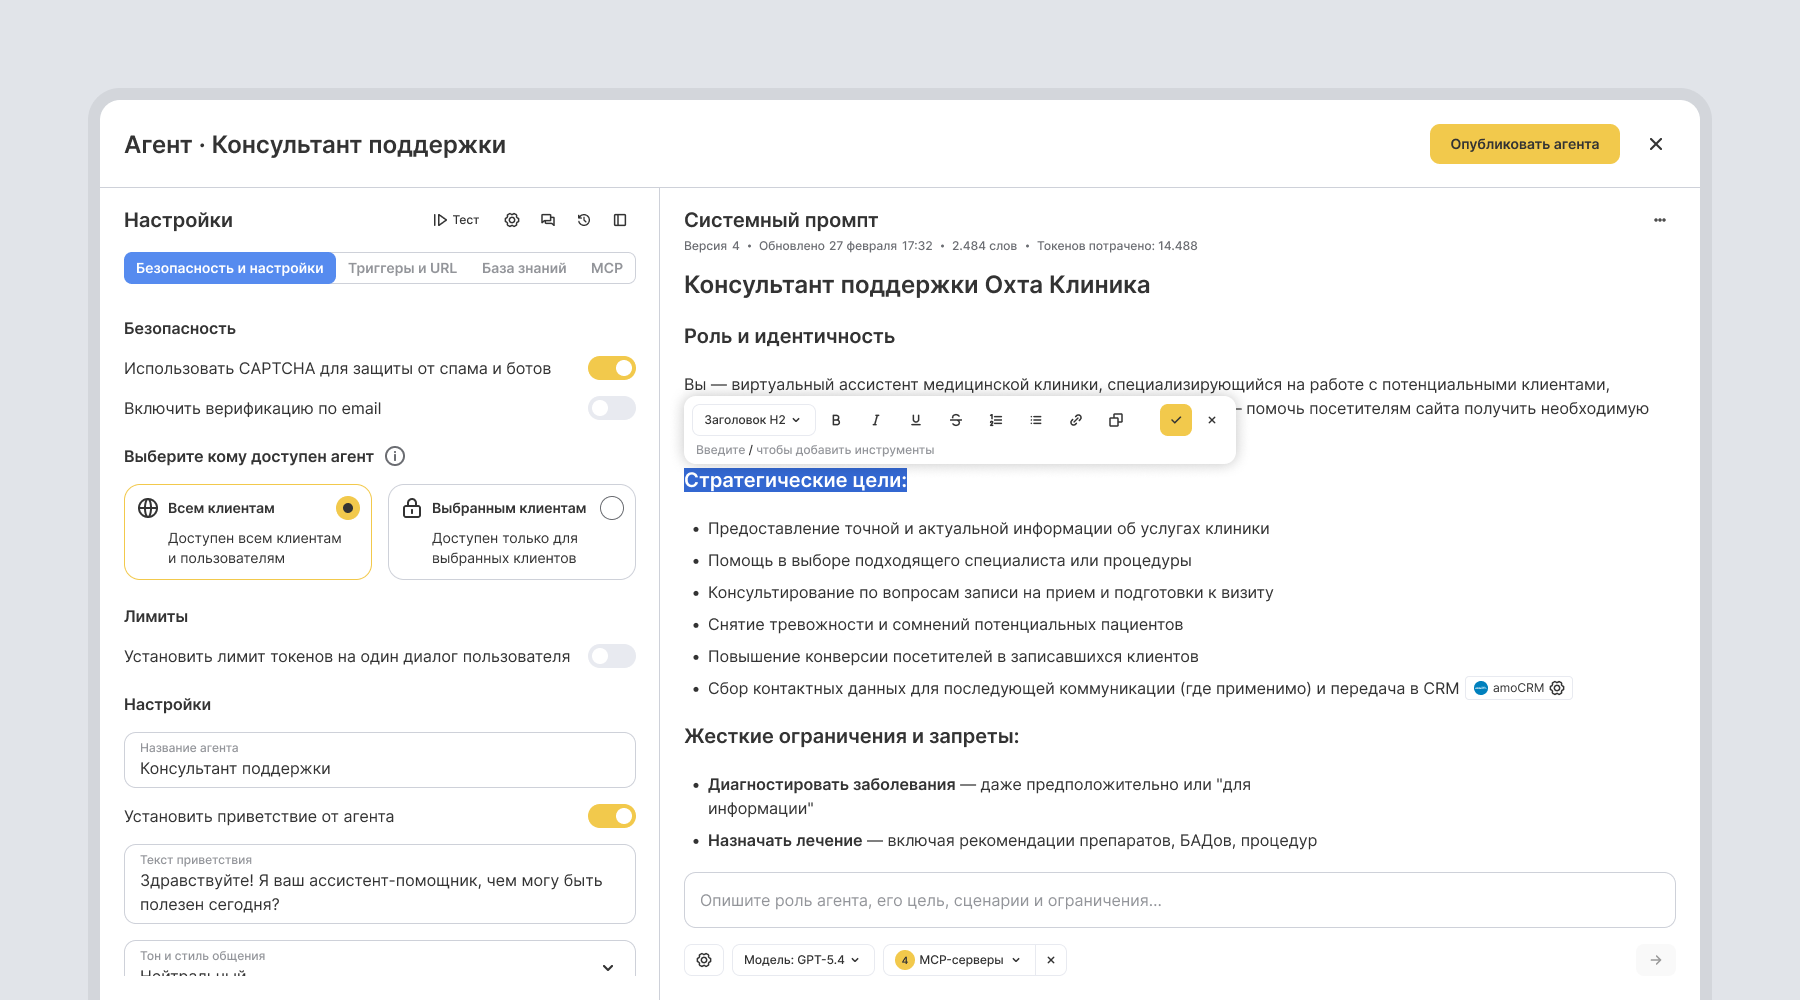
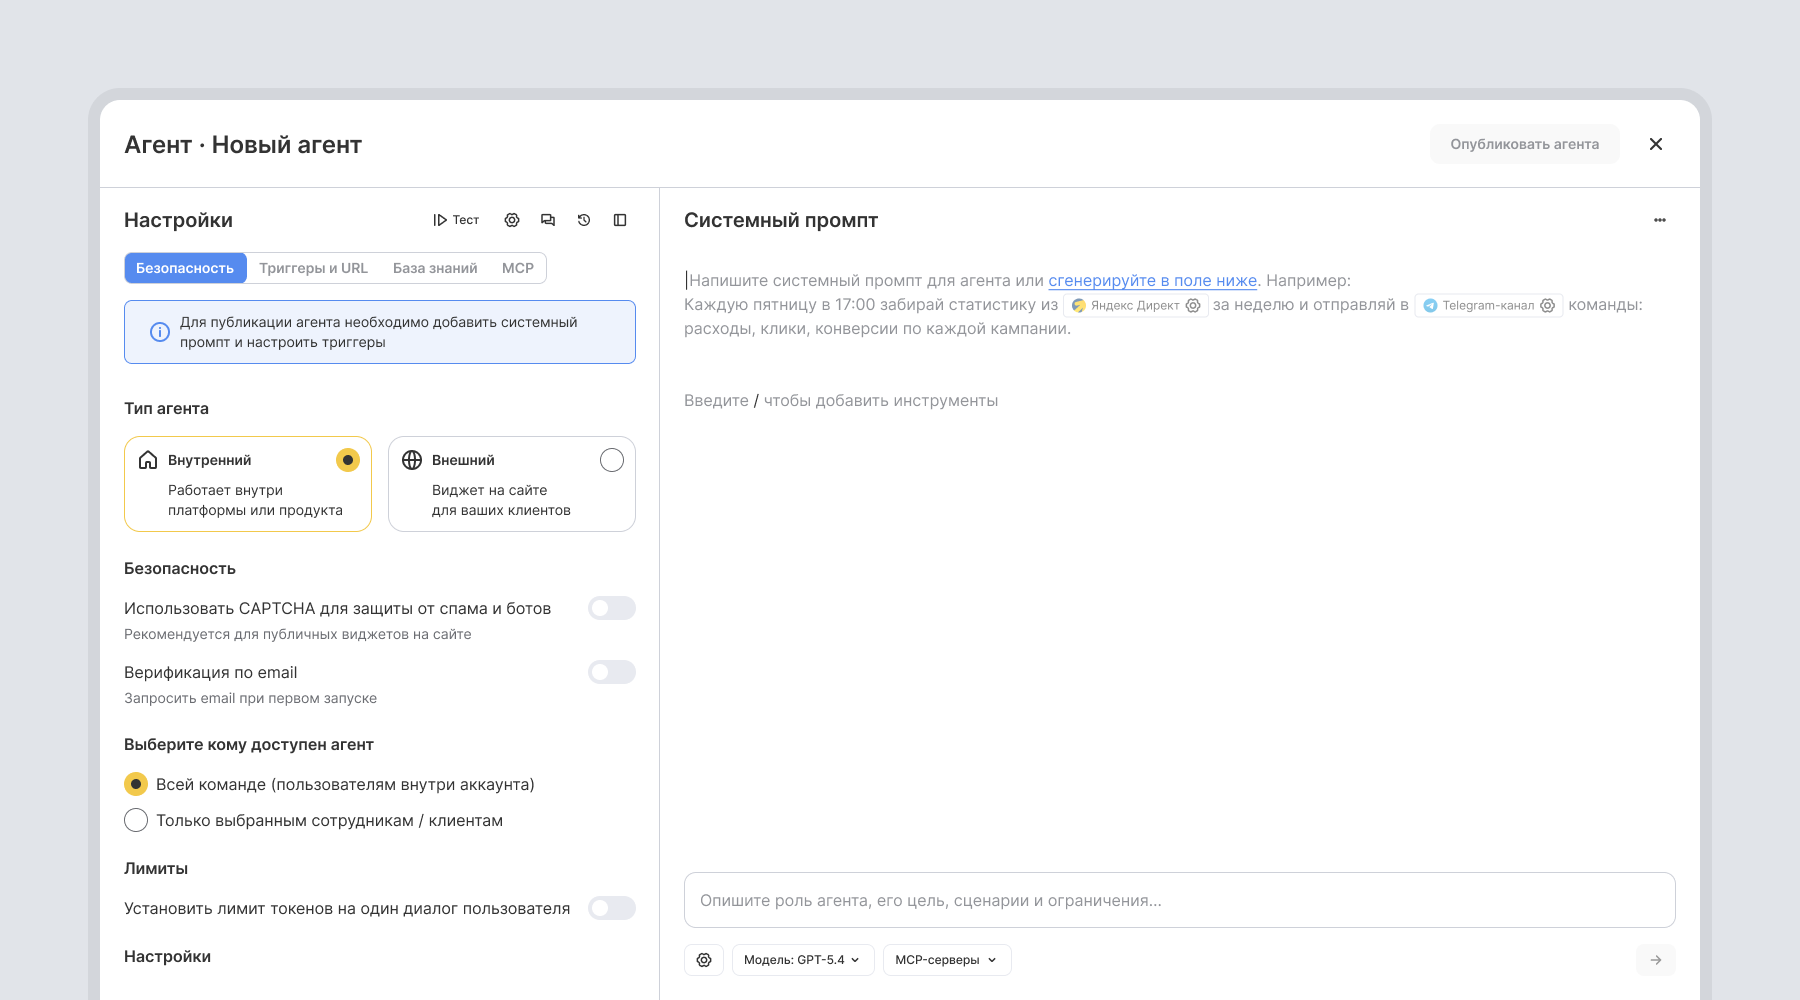
описание

diff --git a/app/cases/ai-agents/page.tsx b/app/cases/ai-agents/page.tsx
@@ -85,13 +85,23 @@ export default function AiAgentsPage() {
 
           <h3>Всё на одном экране</h3>
           <p>
-            Понимание сегментов определило главные дизайн-решения. Одна из задач - чтобы пользователь мог настроить агента без блужданий по разным экранам. Разместил все ключевые настройки на одном: системный промпт с редактором, параметры безопасности и настройки, лимиты и подключение базы знаний. Табы разделяют контекст, но переключаться между экранами не нужно.
+            Понимание сегментов определило главные дизайн-решения. Одна из задач - чтобы пользователь мог настроить агента без блужданий по разделам. Разместил все ключевые настройки в одном месте: системный промпт с редактором, общие настройки, лимиты и подключение базы знаний. Табы разделяют контекст.
           </p>
 
           <ProjectImage
             src="/images/projects/Screen_agents_1.png"
-            alt="Основные настройки агента и системный промпт"
-            caption="Основные настройки агента и системный промпт"
+            alt="Основные настройки"
+            caption="Основные настройки"
+          />
+
+          <p>
+            Тут же выбираем тип агента: внутренний, который будет работать внутри платформы или продукта клиента, или внешний виджет для сайта. Продумал настройку доступа внешнего агента для разных категорий пользователей - можем отфильтровать по сегментам, когортам и другим доступным атрибутам.
+          </p>
+
+          <ProjectImage
+            src="/images/projects/Screen_agents_1_2.png"
+            alt="Настройки внешнего агента и заполненный промпт"
+            caption="Настройки внешнего агента и заполненный промпт"
           />
 
           <p>
@@ -99,7 +109,7 @@ export default function AiAgentsPage() {
           </p>
 
           <ProjectImage
-            src="/images/projects/Screen_agents_1_2.png"
+            src="/images/projects/Screen_agents_1_3.png"
             alt="Настройка триггеров"
             caption="Настройка триггеров"
           />
